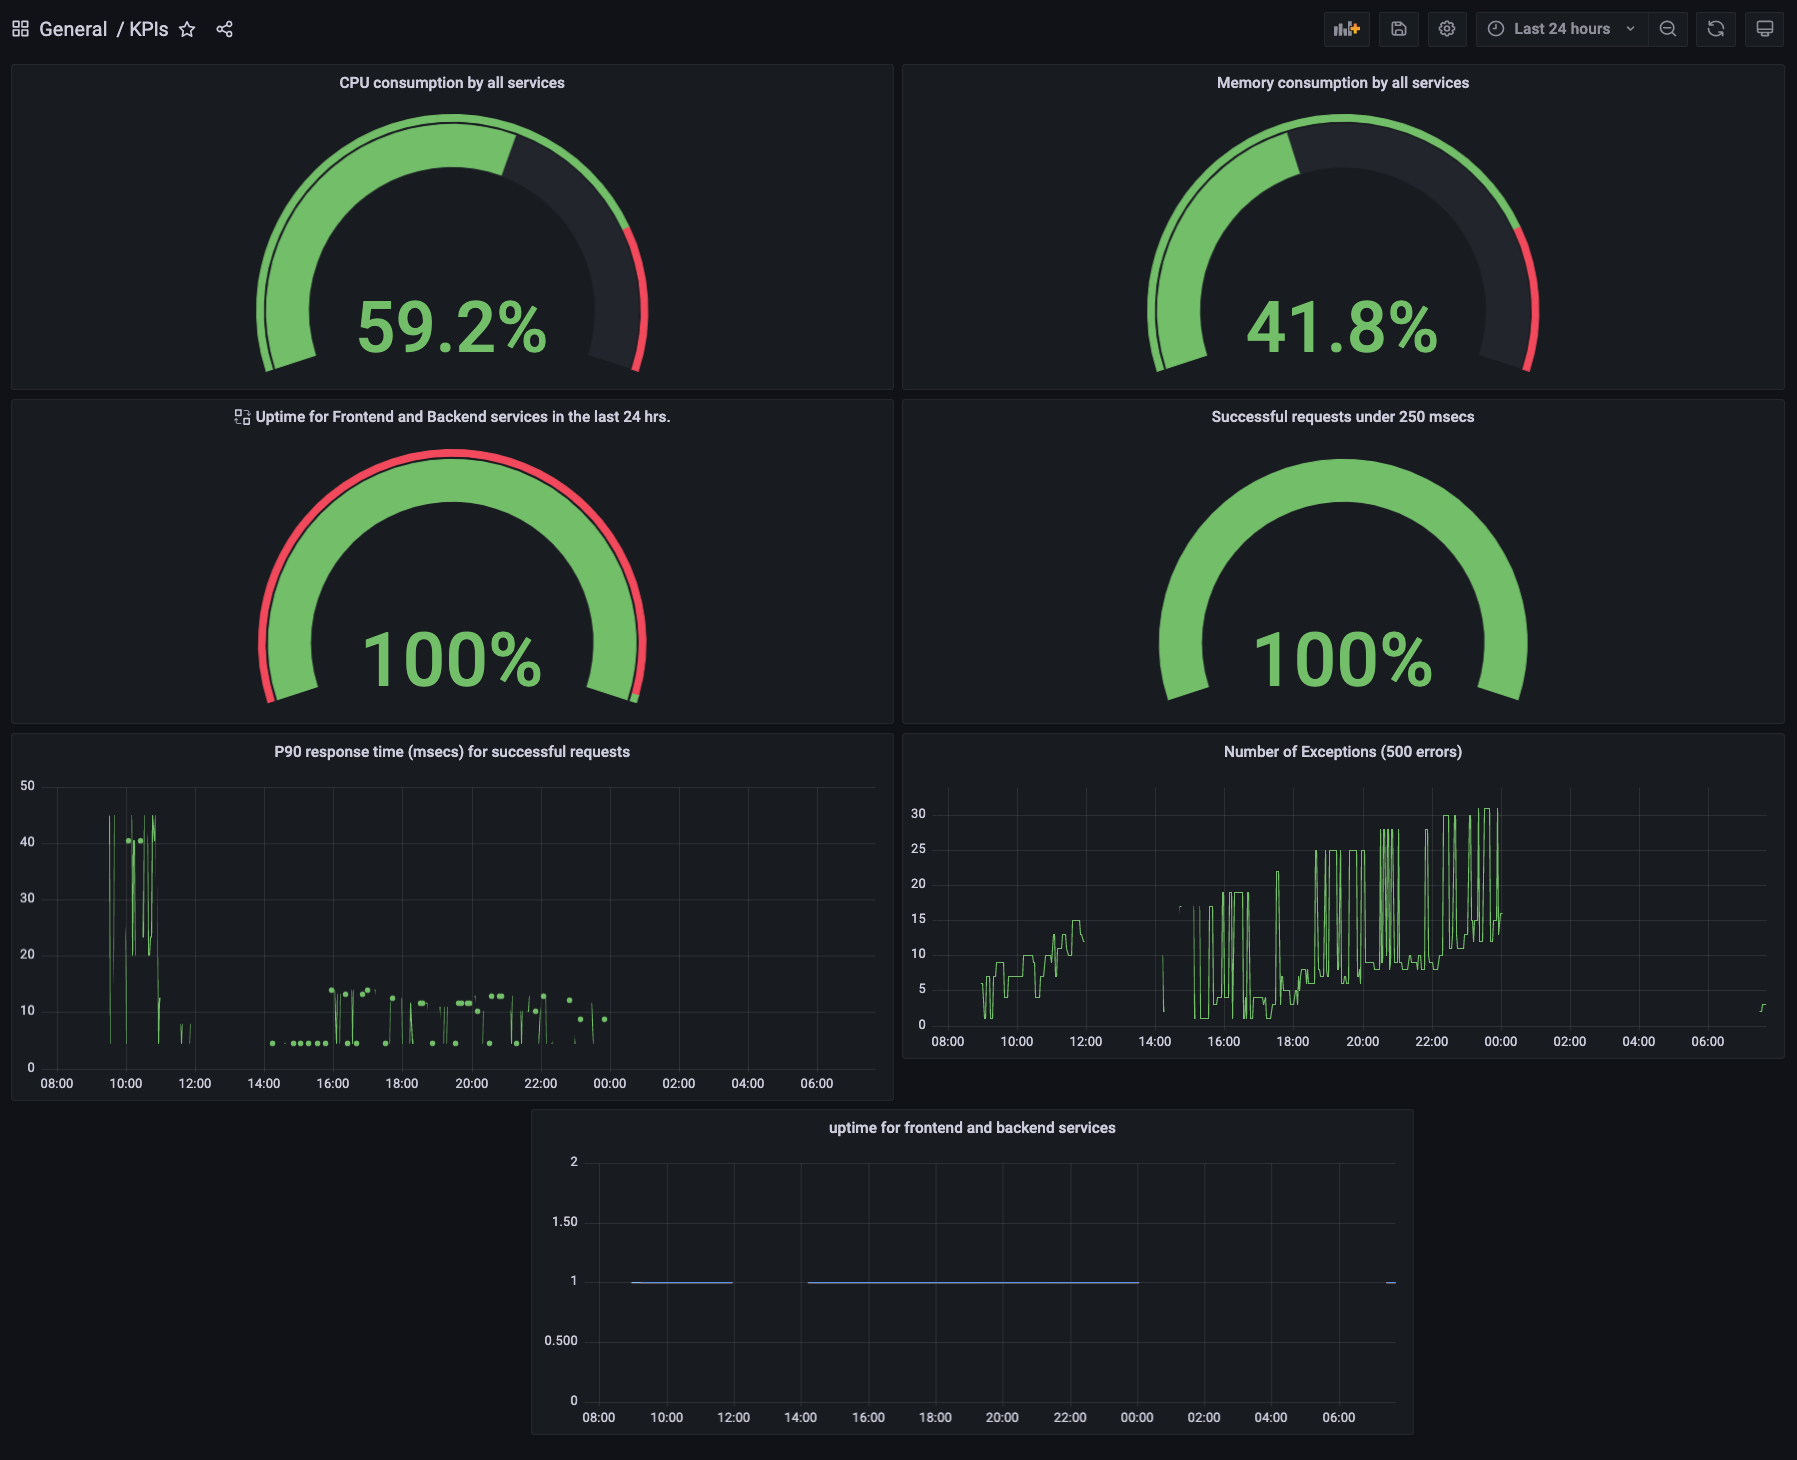
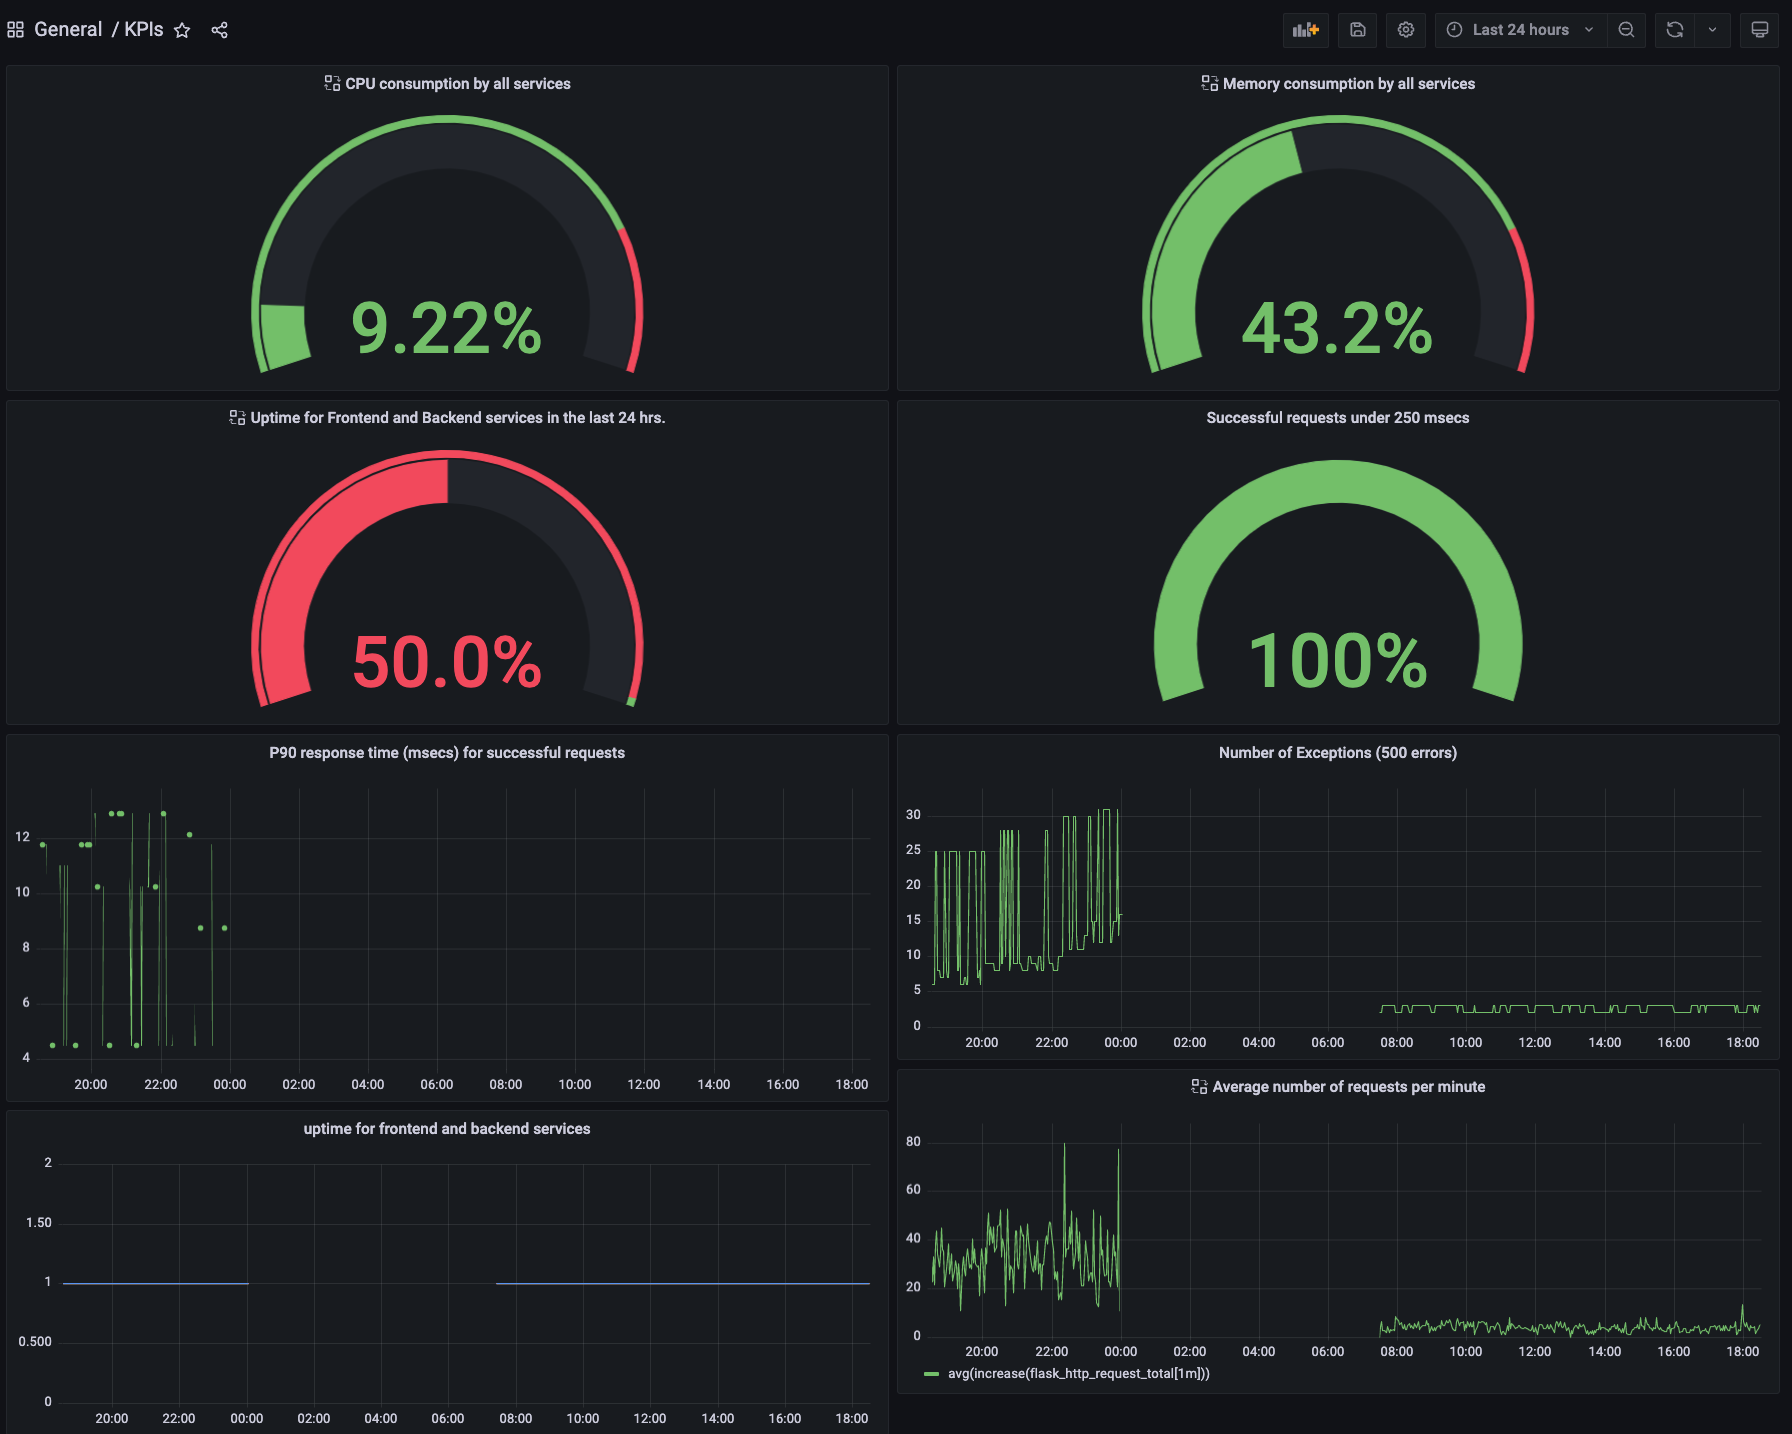
updated dashboard

diff --git a/README.md b/README.md
@@ -6,7 +6,10 @@
 
 ![monitoring_screenshot](answer-img/monitoring_screenshot.png)
 
+![observability_screenshot](answer-img/observability_screenshot.png)
+
 ## Setup the Jaeger and Prometheus source
+
 *TODO:* Expose Grafana to the internet and then setup Prometheus as a data source. Provide a screenshot of the home page after logging into Grafana.
 
 ![Grafana_screenshot](answer-img/Grafana_screenshot.png)
@@ -39,9 +42,19 @@ I would follow the "4 Golden Signals" guideline and system uptime:
 ## Create a Dashboard to measure our SLIs
 *TODO:* Create a dashboard to measure the uptime of the frontend and backend services We will also want to measure to measure 40x and 50x errors. Create a dashboard that show these values over a 24 hour period and take a screenshot.
 
+I have included in the dashboard 6 KPIs:
+
+- CPU and memory consumption (for saturation)
+- Percentage uptime in the last 24 hours (for uptime)
+- 4XX and 5XX errors as a function of time (for errors)
+- Average number of requests per min (for traffic)
+
 ![Up_400_500](answer-img/Up_400_500.png)
 
+
+
 ## Tracing our Flask App
+
 *TODO:*  We will create a Jaeger span to measure the processes on the backend. Once you fill in the span, provide a screenshot of it here.
 
 ![Backend_Jaeger_Trace](answer-img/Backend_Jaeger_Trace.png)
@@ -90,15 +103,16 @@ For demonstration purposes, I would collect KPIs for a 24 hours period.
 5. Percentage of request response time less than 250 milliseconds should be higher than 99.99%.
 6. 90 percentile of successful requests should take less than 100 ms to complete.
 7. There should not be any 500 errors in the last 24 hours.
+8. Average number of requests per minute should be less than 100.
 
 ## Final Dashboard
 *TODO*: Create a Dashboard containing graphs that capture all the metrics of your KPIs and adequately representing your SLIs and SLOs. Include a screenshot of the dashboard here, and write a text description of what graphs are represented in the dashboard.  
 
 "CPU consumption by all services" measures the average CPU usage at 30 sec internals.
 
-"Memory consumption by all services" measures the instanteous memory consumption as a percentage of the system memory (8GB in this case).
+"Memory consumption by all services" measures the instantaneous memory consumption as a percentage of the system memory (8GB in this case).
 
-"Uptime for Frontend and Backend services in the last 24 hours" measures the average uptime for all the pods that are running the Frontend and Backend services in the last 24 hours.
+"Uptime for frontend and backend services" measures the up or down state of the Frontend and Backend services in the last 24 hours.
 
 "Successful requests under 250 mess" measures the percentage of requests with a 200 status code that received a response in less than or equal to 250 msecs.
 
@@ -106,6 +120,8 @@ For demonstration purposes, I would collect KPIs for a 24 hours period.
 
 "Number of Exceptions (500 errors)" measures the number of 500 errors as a function of time in the last 24 hours.
 
-"Uptime for frontend and backend services" measures the up or down state of the Frontend and Backend services in the last 24 hours.
+"Uptime for frontend and backend services" show the up and down states of these services.
+
+"Average number frequents per minute" measures average the number of requests over 1 minutes intervals.
 
 ![KPIs](answer-img/KPIs.png)
